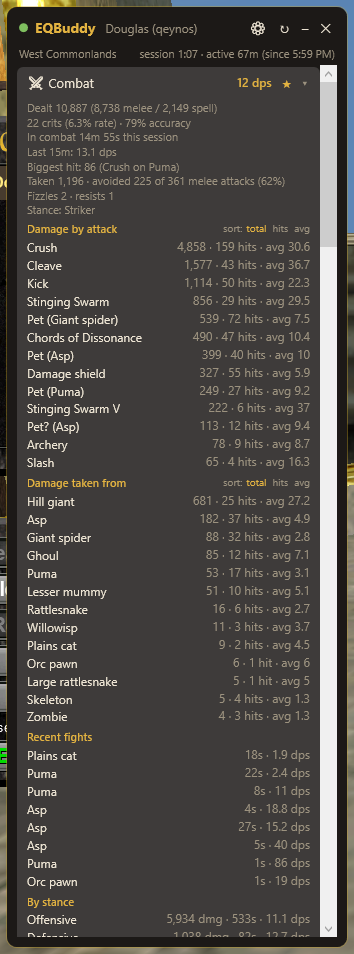
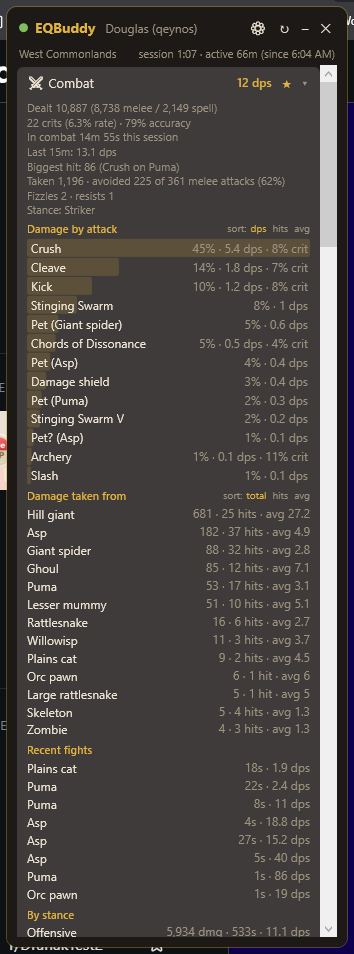
EQBuddy 1.8.5: Details!-style DPS breakdown in Combat
Feature request from a user: "I'd love to see a DPS breakdown when I
expand Combat... something that approximates Details! in WoW."

Damage by attack now renders each source with a proportional
share-of-total bar, % of damage, per-ability DPS, and per-source crit
rate (newly aggregated in Core; pet lines carry no crit annotation so
pets show none). Totals/hits/averages moved to row tooltips; the sort
bar's "total" became "dps" (identical ordering, clearer intent).

1 new test (110 total). Refreshed the combat screenshot.

Changed region(s): [[0.0, 0.0, 1.0, 1.0], [0.0, 0.0, 0.3418, 0.2128]]

diff --git a/src/EQBuddy/MainWindow.xaml b/src/EQBuddy/MainWindow.xaml
@@ -130,7 +130,8 @@
                         <TextBlock Text="Damage by attack" FontSize="11" FontWeight="SemiBold" Foreground="{StaticResource AccentBrush}"/>
                         <StackPanel Orientation="Horizontal" HorizontalAlignment="Right">
                             <TextBlock Text="sort:" FontSize="10" Foreground="{StaticResource DimBrush}" Margin="0,0,4,0"/>
-                            <TextBlock x:Name="DmgOutSortTotal" Text="total" FontSize="10" Cursor="Hand" Tag="total"
+                            <TextBlock x:Name="DmgOutSortTotal" Text="dps" FontSize="10" Cursor="Hand" Tag="total"
+                                       ToolTip="Sort by damage share (same order as total damage)"
                                        Foreground="{StaticResource AccentBrush}" MouseLeftButtonDown="OnSortDmgOut"/>
                             <TextBlock x:Name="DmgOutSortHits" Text="hits" FontSize="10" Cursor="Hand" Tag="hits" Margin="6,0,0,0"
                                        Foreground="{StaticResource DimBrush}" MouseLeftButtonDown="OnSortDmgOut"/>

diff --git a/src/EQBuddy/MainWindow.xaml.cs b/src/EQBuddy/MainWindow.xaml.cs
@@ -369,7 +369,7 @@ public partial class MainWindow : Window
                     : "") +
                 (s.Fizzles + s.Resists > 0 ? $"\nFizzles {s.Fizzles} · resists {s.Resists}" : "") +
                 (s.CurrentStance.Length > 0 ? $"\nStance: {s.CurrentStance}" : "");
-            FillStatList(DamageSourceList, s.DamageBySource, _dmgOutSort, "hit");
+            FillDamageBreakdown(DamageSourceList, s.DamageBySource, _dmgOutSort, s.CombatSeconds);
             FillStatList(DamageTakenList, s.DamageByAttacker, _dmgInSort, "hit");
             RecentFightsLabel.Visibility = s.RecentEncounters.Count > 0 ? Visibility.Visible : Visibility.Collapsed;
             FillList(RecentFightsList, s.RecentEncounters.Select(f =>
@@ -867,6 +867,62 @@ public partial class MainWindow : Window
                 });
             }
         });
+    }
+
+    /// <summary>Details!-style damage breakdown: proportional share bar behind each row,
+    /// "% of total · per-source dps · crit%" up front; total/hits/avg in the tooltip.</summary>
+    private void FillDamageBreakdown(ItemsControl list, IEnumerable<SourceDamage> stats,
+        StatSort sort, double combatSeconds)
+    {
+        var sorted = (sort switch
+        {
+            StatSort.Hits => stats.OrderByDescending(d => d.Hits),
+            StatSort.Avg => stats.OrderByDescending(d => (double)d.Total / d.Hits),
+            _ => stats.OrderByDescending(d => d.Total),
+        }).ToList();
+        list.Items.Clear();
+        if (sorted.Count == 0) return;
+        var grand = Math.Max(1, sorted.Sum(d => d.Total));
+        var top = Math.Max(1, sorted.Max(d => d.Total));
+        var secs = Math.Max(1, combatSeconds);
+        var accent = ((SolidColorBrush)FindResource("AccentBrush")).Color;
+        var barBrush = new SolidColorBrush(Color.FromArgb(0x2E, accent.R, accent.G, accent.B));
+
+        foreach (var d in sorted)
+        {
+            var frac = Math.Clamp((double)d.Total / top, 0.004, 1.0);
+            var row = new Grid { Margin = new Thickness(0, 1, 0, 0) };
+            var bar = new Border
+            {
+                Background = barBrush, CornerRadius = new CornerRadius(2),
+                HorizontalAlignment = HorizontalAlignment.Left, Width = 0,
+            };
+            // Star columns collapse under infinite measure, so size the bar explicitly.
+            row.SizeChanged += (_, se) => bar.Width = Math.Max(0, se.NewSize.Width * frac);
+            row.Children.Add(bar);
+
+            var content = new Grid { Margin = new Thickness(4, 1, 0, 1) };
+            content.ColumnDefinitions.Add(new ColumnDefinition { Width = new GridLength(1, GridUnitType.Star) });
+            content.ColumnDefinitions.Add(new ColumnDefinition { Width = GridLength.Auto });
+            content.Children.Add(new TextBlock
+            {
+                Text = d.Name, FontSize = 12, TextTrimming = TextTrimming.CharacterEllipsis,
+                Foreground = (Brush)FindResource("TextBrush"),
+            });
+            var critPart = d.Crits > 0 ? $" · {100.0 * d.Crits / Math.Max(1, d.Hits):0}% crit" : "";
+            var right = new TextBlock
+            {
+                Text = $"{100.0 * d.Total / grand:0}% · {d.Total / secs:0.#} dps{critPart}",
+                FontSize = 12, Foreground = (Brush)FindResource("DimBrush"),
+                Margin = new Thickness(8, 0, 2, 0),
+            };
+            Grid.SetColumn(right, 1);
+            content.Children.Add(right);
+            row.Children.Add(content);
+            row.HorizontalAlignment = HorizontalAlignment.Stretch;
+            row.ToolTip = $"{d.Total:N0} total · {d.Hits} hit{(d.Hits == 1 ? "" : "s")} · avg {(double)d.Total / Math.Max(1, d.Hits):0.#}";
+            list.Items.Add(row);
+        }
     }
 
     /// <summary>Render a Total/Count/Avg stat list in the chosen sort order.</summary>

diff --git a/src/EQBuddy.Core/SessionStats.cs b/src/EQBuddy.Core/SessionStats.cs
@@ -31,7 +31,7 @@ public sealed class SessionStats
     private long _damageDealt, _meleeDamage, _spellDamage;
     private int _hitCount, _critCount, _missCount;
     private int _maxHit; private string _maxHitDesc = "";
-    private readonly Dictionary<string, (int Count, long Total)> _damageBySource = new(StringComparer.OrdinalIgnoreCase);
+    private readonly Dictionary<string, (int Count, long Total, int Crits)> _damageBySource = new(StringComparer.OrdinalIgnoreCase);
     private readonly Dictionary<string, int> _specialHits = new(StringComparer.OrdinalIgnoreCase);
 
     private long _damageTaken;
@@ -228,8 +228,9 @@ public sealed class SessionStats
                             Bump(_specialHits, note);
                     }
                     if (dd.Amount > _maxHit) { _maxHit = dd.Amount; _maxHitDesc = $"{dd.Source} on {dd.Target}"; }
-                    var src = _damageBySource.TryGetValue(dd.Source, out var s) ? s : (0, 0L);
-                    _damageBySource[dd.Source] = (src.Item1 + 1, src.Item2 + dd.Amount);
+                    var src = _damageBySource.TryGetValue(dd.Source, out var s) ? s : default;
+                    _damageBySource[dd.Source] =
+                        (src.Count + 1, src.Total + dd.Amount, src.Crits + (dd.Critical ? 1 : 0));
                     TrackCombat(dd.Time, dd.Amount);
                     TouchFight(dd.Target, dd.Time, dmgOut: dd.Amount);
                     if (_currentStance is { } st1)
@@ -387,8 +388,9 @@ public sealed class SessionStats
         if (_damageBySource.Remove($"Pet? ({name})", out var provisional))
         {
             var label = $"Pet ({name})";
-            var cur = _damageBySource.TryGetValue(label, out var c) ? c : (0, 0L);
-            _damageBySource[label] = (cur.Item1 + provisional.Count, cur.Item2 + provisional.Total);
+            var cur = _damageBySource.TryGetValue(label, out var c) ? c : default;
+            _damageBySource[label] = (cur.Count + provisional.Count,
+                cur.Total + provisional.Total, cur.Crits + provisional.Crits);
         }
     }
 
@@ -400,8 +402,9 @@ public sealed class SessionStats
         if (kind == DamageKind.Melee) _meleeDamage += amount; else _spellDamage += amount;
         var label = _petConfirmed ? $"Pet ({_petName})" : $"Pet? ({_petName})";
         if (amount > _maxHit) { _maxHit = amount; _maxHitDesc = $"{label} on {target}"; }
-        var src = _damageBySource.TryGetValue(label, out var s) ? s : (0, 0L);
-        _damageBySource[label] = (src.Item1 + 1, src.Item2 + amount);
+        // Pet crit annotations aren't in third-party log lines, so pet crits stay 0.
+        var src = _damageBySource.TryGetValue(label, out var s) ? s : default;
+        _damageBySource[label] = (src.Count + 1, src.Total + amount, src.Crits);
         TrackCombat(t, amount);
         TouchFight(target, t, dmgOut: amount);
     }
@@ -683,7 +686,8 @@ public sealed class SessionStats
                 MaxHit = _maxHit,
                 MaxHitDesc = _maxHitDesc,
                 DamageBySource = _damageBySource.OrderByDescending(kv => kv.Value.Total)
-                    .Select(kv => new SourceDamage(kv.Key, kv.Value.Count, kv.Value.Total)).ToList(),
+                    .Select(kv => new SourceDamage(kv.Key, kv.Value.Count, kv.Value.Total,
+                        kv.Value.Crits)).ToList(),
                 SpecialHits = _specialHits.OrderByDescending(kv => kv.Value)
                     .Select(kv => new NameCount(kv.Key, kv.Value)).ToList(),
                 SessionDps = sessionDps,
@@ -777,7 +781,7 @@ public record NameCount(string Name, int Count);
 public record RecentRates(TimeSpan Window, bool HasFullWindow, double XpPercent, double XpPerHour,
     int Kills, long Copper, double Dps, double Hps);
 public record TimedDetail(DateTime Time, string Text);
-public record SourceDamage(string Name, int Hits, long Total);
+public record SourceDamage(string Name, int Hits, long Total, int Crits = 0);
 public record LootDetail(string Item, int Count, string LastSource);
 public record SkillDetail(string Skill, int Ups, int Value);
 public record SoldDetail(string Item, int Count, long Copper);

diff --git a/tests/EQBuddy.Tests/SessionStatsTests.cs b/tests/EQBuddy.Tests/SessionStatsTests.cs
@@ -158,6 +158,18 @@ public class SessionStatsTests
     }
 
     [Fact]
+    public void DamageBySourceTracksPerSourceCrits()
+    {
+        var s = Replay("Kaybek",
+            At(0, 0, "You slash orc pawn for 10 points of damage. (Critical)"),
+            At(0, 1, "You slash orc pawn for 10 points of damage."),
+            At(0, 2, "You kick orc pawn for 5 points of damage.")).Snapshot();
+        var slash = s.DamageBySource.Single(d => d.Name == "Slash");
+        Assert.Equal((2, 1), (slash.Hits, slash.Crits));
+        Assert.Equal(0, s.DamageBySource.Single(d => d.Name == "Kick").Crits);
+    }
+
+    [Fact]
     public void AutoSellCountsAsLootAndVendorIncome()
     {
         var s = Replay("Douglas",

diff --git a/README.md b/README.md
@@ -144,7 +144,7 @@ Session DPS = your damage ÷ time actually **in combat**, so downtime never dilu
 
 | Section | Summary stat | Click-in details |
 |---|---|---|
-| Combat | Session DPS (+ live fight DPS) | Damage per attack/spell/song with totals, hit counts and averages (sortable by total/hits/avg); crit rate, accuracy, melee avoidance %, biggest hit, time in combat, damage taken per mob, fizzles/resists |
+| Combat | Session DPS (+ live fight DPS) | Details!-style damage breakdown per attack/spell/song — share-of-total bars, % of damage, per-ability DPS and crit rate (totals/hits/averages in tooltips; sortable by dps/hits/avg); crit rate, accuracy, melee avoidance %, biggest hit, time in combat, damage taken per mob, fizzles/resists |
 | Healing | HPS (healing ÷ time in combat) | Healing done and received, heals cast per spell with totals/casts/averages, who healed you, hymn/regen tick counts (the log gives no amounts for those) |
 | Kills | Your kills incl. pet (+ group kills) | Count per creature type, kills/hour, group-member kill counts; per-creature farming: avg fight length, coin, XP, and observed drops with your personal rate (e.g. `×2 · 22%`) |
 | Loot | Items looted (+ items made) | Every item with counts, items created by merging |

diff --git a/docs/reddit-post-v2.md b/docs/reddit-post-v2.md
@@ -86,7 +86,7 @@ Per-section gallery (for an album or comment thread):
 
 | File | Caption suggestion |
 |---|---|
-| `section-combat.png` | Combat: session + last-15m DPS, crit/accuracy/avoidance, damage by attack incl. pets, damage taken per mob, recent fights, stance breakdown |
+| `section-combat.png` | Combat: Details!-style damage breakdown (share bars, per-ability DPS and crit %), damage taken per mob, recent fights, stance breakdown |
 | `section-healing.png` | Healing: HPS, heals cast per spell with averages, who healed you, regen/hymn tick counts |
 | `section-kills-loot.png` | Kills: per-creature counts and kills/hour, farming stats with observed drop % per item |
 | `section-loot.png` | Loot: every item with counts, plus items created by merging |